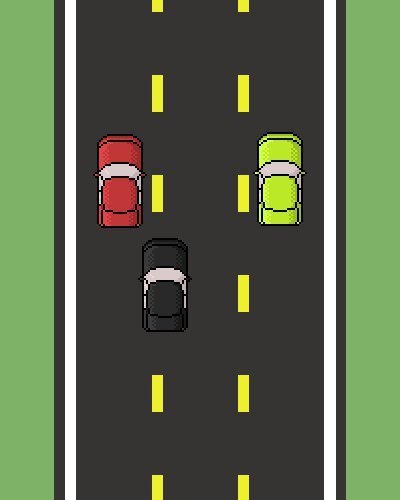
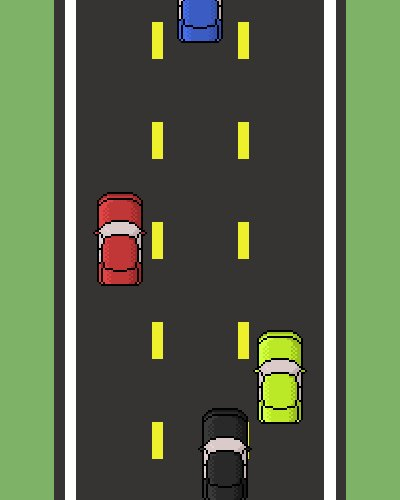
Fix reward functions

diff --git a/pycar_env.py b/pycar_env.py
@@ -46,7 +46,7 @@ class PyCar():
 
         'PLAYER'
         self.player_x, self.player_y = int(self.wid / 2), int(self.hei - 50)
-        self.player_spd = 5
+        self.player_spd = 25
         self.player_spd_x = self.player_spd #85
         self.player_spd_y = self.player_spd #20
 
@@ -66,9 +66,9 @@ class PyCar():
         self.bg = pg.transform.scale(self.bg, (self.wid, self.hei))
         self.bg_y = 0
         self.cars_img = [pg.image.load('assets/images/sprites/Player_Car.png'),
-                    pg.image.load('assets/images/sprites/Enemy1_Car.png'),
                     pg.image.load('assets/images/sprites/Enemy2_Car.png'),
-                    pg.image.load('assets/images/sprites/Enemy3_Car.png')]
+                    pg.image.load('assets/images/sprites/Enemy2_Car.png'),
+                    pg.image.load('assets/images/sprites/Enemy2_Car.png')]
 
         'MUSIC'
         # pg.mixer_music.load('assets/sounds/music/Chillwave_Nightdrive.mp3')
@@ -120,9 +120,9 @@ class PyCar():
             self.player_x += self.player_spd_x
         if action == 3: # and self.player_x >= 110:
             self.player_x -= self.player_spd_x
-        if action == 1 and self.player_y >= int(self.car_y/2) + 50:
+        if action == 2 and self.player_y >= int(self.car_y/2) + 50:
             self.player_y -= self.player_spd_y
-        if action == 0 and self.player_y <= int(self.hei - 50):
+        if action == 1 and self.player_y <= int(self.hei - 50):
             self.player_y += self.player_spd_y
         else:
             pass
@@ -175,12 +175,11 @@ class PyCar():
         
         'LANE'
         ##action 3 is left and action 4 is right
-        action = 4 ##NEED TO FIX THIS
-
+        # action = 4 ##NEED TO FIX THIS
         
         lane_changed = False
         if  self.prev_lane == "center" and (action == 3 or action == 4): 
-            if abs(self.player_x-int(self.wid / 2)) > 75 and abs(self.player_x-int(self.wid / 2)) < 110:
+            if abs(self.player_x-int(self.wid / 2)) > 75 and abs(self.player_x-int(self.wid / 2)) < 120:
                 lane_changed = True
         elif self.prev_lane == "left":
             #if action == 3:
@@ -198,26 +197,35 @@ class PyCar():
                 pass
         else:
             pass    
-
+        
         if lane_changed:
             self.prev_lane = self.get_current_lane()
             # print(prev_lane) 
 
         'NEW SCORE'
-        reward = self.get_reward(collision, lane_changed, None)
+        reward = self.get_reward(collision, lane_changed, self.get_current_lane()==None)
         self.score += reward
         # print(self.score)
         done = False
-        if self.score < 0 or collision:
+        if collision:
             done = True
 
         pg.display.update()
-        pg.image.save(self.screen, "screenshot.jpeg")
-        img = np.array(Image.open("screenshot.jpeg"))
-        #print(img.shape)
-        return img, reward, done
+        # image_data = pg.surfarray.array3d(pg.display.get_surface())
 
+        # pg.image.save(self.screen, "screenshot.jpeg")
+        # img = np.array(Image.open("screenshot.jpeg"))
+        # #print(img.shape)
+        return None, reward, done
 
+    def get_state(self):
+        num_images = 4
+        images=np.zeros((100, 125, 12))
+        for i in range(num_images):
+            pg.display.update()
+            img = Image.fromarray(pg.surfarray.array3d(pg.display.get_surface())).resize(size=(125, 100))
+            images[:, :, 3*i:3*i+3] = np.array(img)
+        return images
 
     def run_game(self, keyboard=True):
         main = True
@@ -243,35 +251,33 @@ class PyCar():
 
     def get_reward(self, collision, lane_changed, rule):
 
-        r_col = -1 if collision else 0
-        r_comp = 1 if lane_changed else 0
+        r_col = -20 if collision else 0
+        r_comp = 0 if lane_changed else 0
 
         # No rule for now
         # r_vel = -alpha*np.abs(v_target-v_agent)
 
         # r_safe = ##TODO
 
-        # if rule == 0:
-        #     r_const = -5
-        # elif rule == 1:
-        #     r_const = -5
-        # else:
-        #     r_const = 0 
+        if rule:
+            r_const = -1
+        else:
+            r_const = 1
 
         # r_rule = r_vel + r_safe + r_const
 
-        return r_col+r_comp
+        return r_col+r_comp + r_const
     
     def get_current_lane(self):
         if abs(self.player_x-int(self.wid / 2))<15:
             # print(self.player_x-int(self.wid/2))
             return "center"
-        elif (self.player_x-int(self.wid / 2))<105 and (self.player_x-int(self.wid / 2))>75:
+        elif (self.player_x-int(self.wid / 2))<120 and (self.player_x-int(self.wid / 2))>65:
             return "left"
-        elif (int(self.wid / 2)-self.player_x)<105 and (int(self.wid / 2)-self.player_x)>75:
+        elif (int(self.wid / 2)-self.player_x)<120 and (int(self.wid / 2)-self.player_x)>65:
             return "right"
         else:
-            pass
+            return None
 
 
 

diff --git a/DQNAgent.py b/DQNAgent.py
@@ -10,7 +10,7 @@ from collections import namedtuple
 import math
 import random
 import shutil
-
+import warnings
 import gym
 from torch.backends import cudnn
 from tqdm import tqdm
@@ -53,7 +53,7 @@ class DQNAgent:
         self.current_iteration = 0
         self.episode_durations = []
 
-        self.batch_size = 32
+        self.batch_size = 200
 
         # set cuda flag
         self.is_cuda = torch.cuda.is_available()
@@ -78,6 +78,7 @@ class DQNAgent:
         self.target_model.load_state_dict(self.policy_model.state_dict())
         self.target_model.eval()
 
+        self.savepath = "/home/sk002/Documents/RL-Project/model/"
         # Summary Writer
         # self.summary_writer = SummaryWriter(log_dir=self.config.summary_dir, comment='DQN')
 
@@ -145,14 +146,14 @@ class DQNAgent:
             with torch.no_grad():
                 return self.policy_model(state).max(1)[1].view(1, 1)  # size (1,1)
         else:
-            return torch.tensor([[random.randrange(2)]], device=self.device, dtype=torch.long)
+            return torch.tensor([[random.randrange(5)]], device=self.device, dtype=torch.long)
 
     def optimize_policy_model(self):
         """
         performs a single step of optimization for the policy model
         :return:
         """
-        if self.memory.length() < self.batch_size:
+        if self.memory.length() < 2*self.batch_size:
             return
         # sample a batch
         transitions = self.memory.sample_batch(self.batch_size)
@@ -162,7 +163,6 @@ class DQNAgent:
         # create a mask of non-final states
         non_final_mask = torch.tensor(tuple(map(lambda s: s is not None, one_batch.next_state)), device=self.device,dtype=torch.uint8)  # [128]
         non_final_next_states = torch.cat([s for s in one_batch.next_state if s is not None])  # [< 128, 3, 40, 80]
-
         # concatenate all batch elements into one
         state_batch = torch.cat(one_batch.state)  # [128, 3, 40, 80]
         action_batch = torch.cat(one_batch.action)  # [128, 1]
@@ -198,7 +198,7 @@ class DQNAgent:
         :return:
         """
 
-        self.num_episodes = 50
+        self.num_episodes = 200
         self.target_update = 10
 
         for episode in tqdm(range(self.current_episode, self.num_episodes)):
@@ -210,8 +210,12 @@ class DQNAgent:
             if self.current_episode % self.target_update == 0:
                 self.target_model.load_state_dict(self.policy_model.state_dict())
 
-        self.env.render()#TODO
-        self.env.close()#TODO
+            if self.current_episode%50 == 0:
+                torch.save(self.policy_model.state_dict(), self.savepath+"policy_epoch"+str(self.current_episode))
+                torch.save(self.target_model.state_dict(), self.savepath+"target_epoch"+str(self.current_episode))
+
+        # self.env.render()#TODO
+        # self.env.close()#TODO
 
     def train_one_epoch(self):
         """
@@ -219,16 +223,17 @@ class DQNAgent:
         :return:
         """
         episode_duration = 0
-
+        # self.env.run_game(True)
         # get state
-        curr_state = #TODO
+        curr_state = torch.Tensor(self.env.get_state()).permute(2, 0, 1).unsqueeze(0)
 
         while(1):
             episode_duration += 1
             # select action
             action = self.select_action(curr_state)
             # perform action and get reward
-            _, reward, done, _ = self.env.step(action.item())#TODO
+            # print(action)
+            _, reward, done = self.env.step(action.item())#TODO
 
             if self.cuda:
                 reward = torch.Tensor([reward]).to(self.device)
@@ -240,7 +245,7 @@ class DQNAgent:
             if done:
                 next_state = None
             else:
-                next_state = self.env.get_() #TODO
+                next_state = torch.Tensor(self.env.get_state()).permute(2, 0, 1).unsqueeze(0) #TODO
 
             # add this transition into memory
             self.memory.push_transition(curr_state, action, next_state, reward)
@@ -252,7 +257,7 @@ class DQNAgent:
             if curr_loss is not None:
                 if self.cuda:
                     curr_loss = curr_loss.cpu()
-                    print(curr_loss)
+                    # print(curr_loss)
                 # self.summary_writer.add_scalar("Temporal Difference Loss", curr_loss.detach().numpy(), self.current_iteration)
             # check if done
             if done:
@@ -277,6 +282,8 @@ class DQNAgent:
 if __name__=="__main__":
 
     Transition = namedtuple('Transition', ('state', 'action', 'next_state', 'reward'))
+    warnings.filterwarnings("ignore", category=UserWarning)
 
     agent = DQNAgent()
     agent.run()
+    

diff --git a/dqn.py b/dqn.py
@@ -100,9 +100,9 @@ class DQN(nn.Module):
     def __init__(self):
         super().__init__()
 
-        self.input_channels = 3
+        self.input_channels = 12
         self.conv_filters = [16, 32, 32] 
-        self.num_classes = 2
+        self.num_classes = 5
 
         self.relu = nn.ReLU(inplace=True)
 
@@ -115,7 +115,7 @@ class DQN(nn.Module):
         self.conv3 = nn.Conv2d(in_channels=self.conv_filters[1], out_channels=self.conv_filters[2], kernel_size=5, stride=2, padding=0, bias=True)
         self.bn3 = nn.BatchNorm2d(self.conv_filters[2])
 
-        self.linear = nn.Linear(448, self.num_classes)
+        self.linear = nn.Linear(3744, self.num_classes)
 
         self.apply(weights_init)
 
